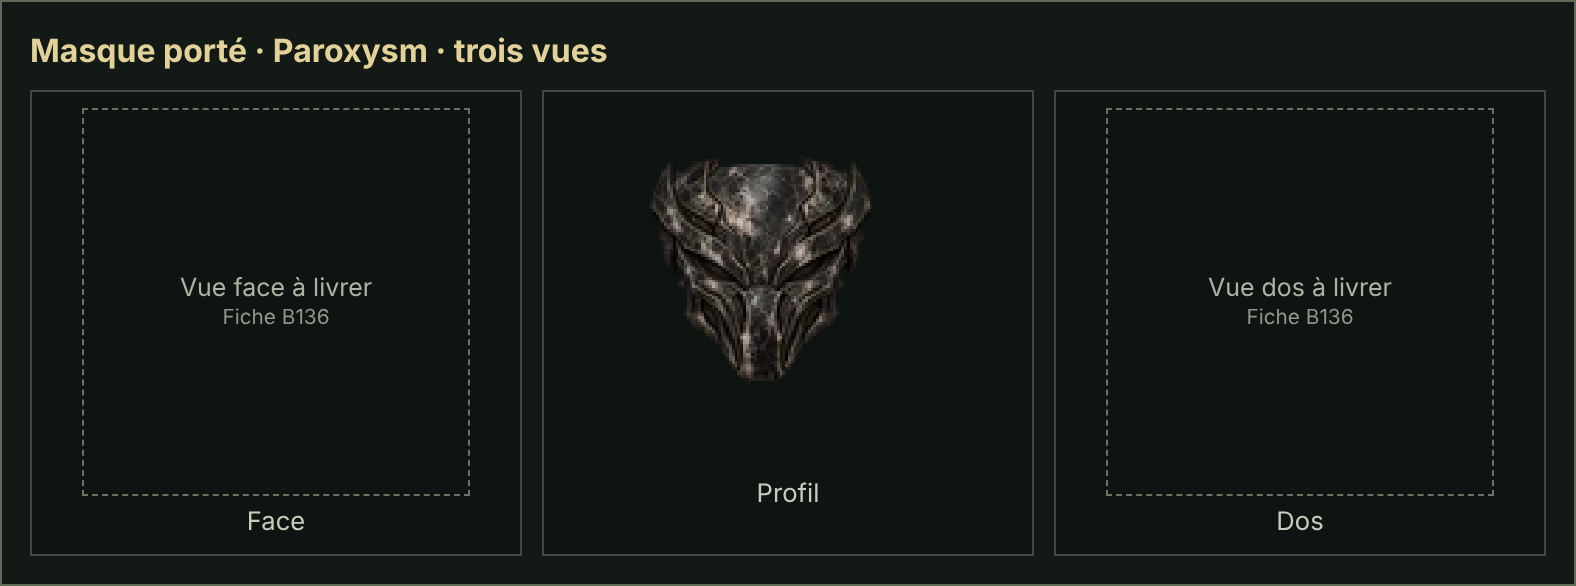
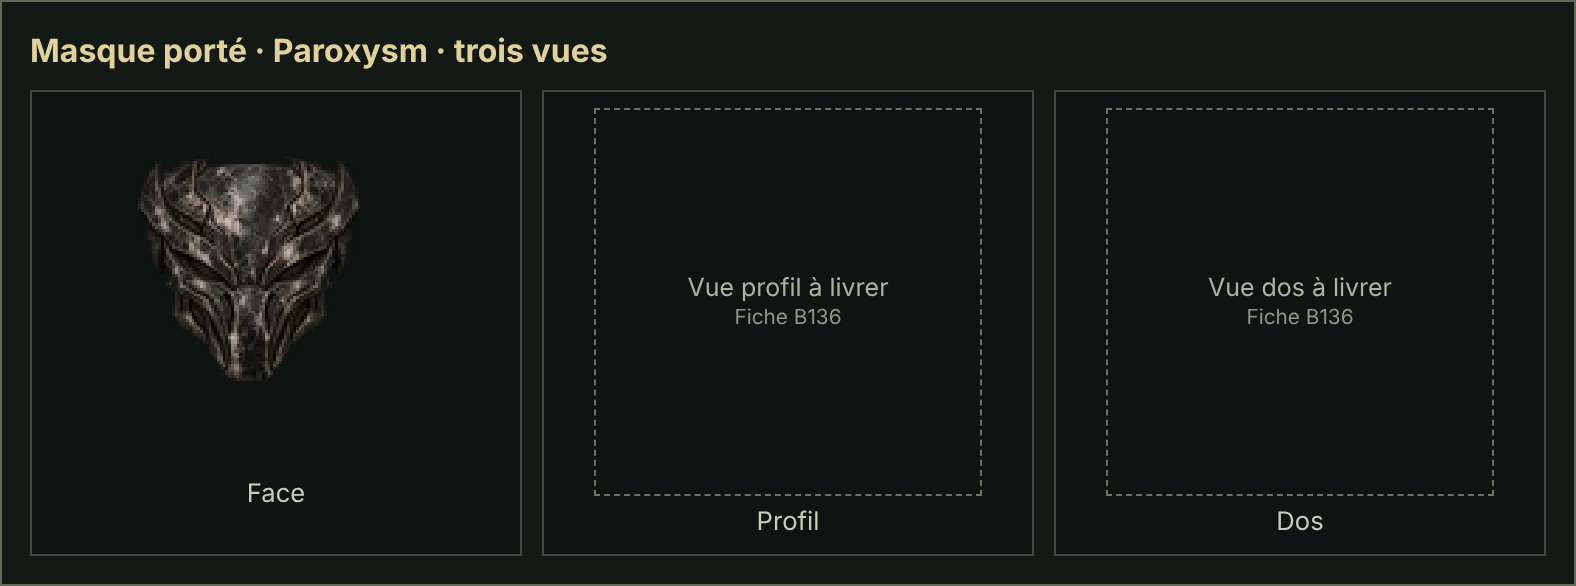
feat(armory): le sprite V133 devient la vue de face, profil et dos à livrer
Décision du propriétaire : le sprite concept V133 montre le masque de
face. L’armurerie l’affiche en face ; le profil et le dos viennent du
registre maskViewsV136.json. Les fiches d’art demandent désormais
profil.png et dos.png, cadrés sur la face existante.

Story: B136-0308..0314, B136-0234, B136-0251, B136-0266

Claude-Session: https://claude.ai/code/session_01GiExFMLy6mE6VdGnifECns

diff --git a/app/game/MaskTurnaroundV136.tsx b/app/game/MaskTurnaroundV136.tsx
@@ -1,21 +1,21 @@
 "use client";
 /** B136 · Face, profile and back of the worn concept mask in the armory.
- * Profile is the published V133 sprite; face and back come from maskViewsV136.json
- * once delivered and checked, otherwise the tile states that the view is pending.
+ * The published V133 sprite is the face view (owner decision, 2026-11-23); profile and back
+ * come from maskViewsV136.json once delivered and checked, otherwise the tile says it is pending.
  * Every view shares the 256×384 mask canvas; tiles show its 128×128 head window (x 64–192, y 0–128). */
 import views from "./data/maskViewsV136.json";
 import { conceptBiomaskV133 } from "./conceptBiomasksV133";
 import styles from "./MaskTurnaroundV136.module.css";
 
-type MaskViewsV136 = { face?: string; back?: string };
+type MaskViewsV136 = { profile?: string; back?: string };
 const registry = views.records as Record<string, MaskViewsV136>;
 
 /** View paths for a concept mask, or null when the mask is not a V133 concept. */
-export function maskTurnaroundV136(maskId: unknown): { name: string; profile: string; face: string | null; back: string | null } | null {
+export function maskTurnaroundV136(maskId: unknown): { name: string; face: string; profile: string | null; back: string | null } | null {
   const concept = conceptBiomaskV133(maskId);
   if (!concept) return null;
   const entry = registry[concept.id] ?? {};
-  return { name: concept.name.replace(/^Biomask concept · /, ""), profile: concept.assetPath, face: entry.face ?? null, back: entry.back ?? null };
+  return { name: concept.name.replace(/^Biomask concept · /, ""), face: concept.assetPath, profile: entry.profile ?? null, back: entry.back ?? null };
 }
 
 export default function MaskTurnaroundV136({ maskId }: { maskId: unknown }) {

diff --git a/docs/art/b136-masques-face-dos-fiches-20261123.md b/docs/art/b136-masques-face-dos-fiches-20261123.md
@@ -1,32 +1,32 @@
-# B136 · Fiches d'art des vues de face et de dos des masques
+# B136 · Fiches d'art des vues de profil et de dos des masques
 
 Commande d'art du 23 novembre 2026 pour B136-0308 à B136-0314 (sept masques concepts V133) et B136-0234, B136-0251 et B136-0266 (trois décalques de biomask). L'utilisateur fournit les images ; l'intégration et les contrôles pixel suivent leur livraison.
 
-Le critère des sept masques demande « face/profil/dos conformes, pivots mesurés, sans occlusion des yeux, jeu, aperçu et sauvegarde validés ». Celui des décalques demande des captures « 6 morphologies × 3 vues, ID autorisé, aucune fuite sur une autre zone ». Le profil existe déjà ; seules la face et le dos manquent.
+Le critère des sept masques demande « face/profil/dos conformes, pivots mesurés, sans occlusion des yeux, jeu, aperçu et sauvegarde validés ». Celui des décalques demande des captures « 6 morphologies × 3 vues, ID autorisé, aucune fuite sur une autre zone ». **Décision du 23 novembre 2026 :** le sprite V133 publié montre le masque de face (les deux fentes des yeux sont visibles). Il devient la **vue de face**. Il manque donc le **profil** et le **dos**.
 
 ## Limite à connaître avant de produire
 
-Le jeu ne dessine aujourd'hui le chasseur qu'**en profil**, gauche et droite. Aucun écran n'affiche une vue de face ou de dos du corps. Les nouvelles images ne pourront donc être contrôlées en jeu qu'après l'ajout d'une surface de présentation face/profil/dos. Elle demande aussi les vues de face et de dos du corps des six morphologies, qui n'existent pas non plus. Cette question est posée séparément ; les fiches ci-dessous restent valables quel que soit le choix.
+L'armurerie présente désormais le masque concept porté en trois vues (`app/game/MaskTurnaroundV136.tsx`) : la face publiée, puis le profil et le dos, signalés « à livrer » jusqu'à la livraison. Le corps du chasseur n'existe pas de face ni de dos ; les captures « 6 morphologies × 3 vues » du critère demandent encore ces vues de corps.
 
 ## Règles communes aux sept masques
 
 | Élément | Règle |
 | --- | --- |
-| Fichiers à livrer | `face.png` et `dos.png` par masque, PNG RGBA, fond entièrement transparent. Je produis les WebP du jeu. |
-| Toile | 256 × 384 px, comme le profil (`public/game/assets/v133/concept-masks/*.webp`). |
-| Échelle | Même hauteur de masque que le profil : environ 81 px de haut (alpha de y = 17 à y ≈ 98 dans le profil). |
-| Ancrage | Face et dos centrés sur l'axe vertical x = 128. Haut du masque à y = 17, comme le profil. |
-| Symétrie | La face reste symétrique sauf détail propre au modèle visible sur le profil (cicatrice, glyphe, tube). Un détail asymétrique est signalé dans la livraison. |
-| Yeux | Face : les deux fentes oculaires restent nettes et non recouvertes par un tube, un glyphe ou une pointe. |
+| Fichiers à livrer | `profil.png` et `dos.png` par masque, PNG RGBA, fond entièrement transparent. Je produis les WebP du jeu. |
+| Toile | 256 × 384 px, comme la vue de face publiée (`public/game/assets/v133/concept-masks/*.webp`). |
+| Échelle | Même hauteur de masque que la face : environ 81 px (alpha de y = 17 à y ≈ 98). |
+| Ancrage | Haut du masque à y = 17. Centre horizontal sur celui de la face du même masque (milieu du cadre alpha du tableau ci-dessous, x ≈ 118). |
+| Profil | Vue latérale droite (le masque regarde vers la droite), cohérente avec les volumes de la face : front, arêtes, tubes. |
+| Yeux | Profil : la fente oculaire visible reste nette, non recouverte par un tube, un glyphe ou une pointe. |
 | Dos | Il montre l'arrière du masque et ses fixations au casque, sans visage. Ne pas dessiner de tête ni de dreadlocks : ils appartiennent au corps. |
-| Style | Mêmes matériaux, palette, usure et éclairage que le profil (lumière venant d'en haut à gauche). Aucun logo, texte ou élément repris d'une œuvre existante. |
+| Style | Mêmes matériaux, palette, usure et éclairage que la face (lumière venant d'en haut à gauche). Aucun logo, texte ou élément repris d'une œuvre existante. |
 | Interdits | Pas d'ombre portée hors du masque, pas de halo, pas de pixels semi-transparents parasites hors de la silhouette. |
 
 ## Fiches par masque
 
-Les cadres alpha du profil viennent de `app/game/conceptMaskFitV137.ts`. L'empreinte SHA-256 (préfixe) identifie le profil de référence dans `app/game/data/conceptBiomasksV133.json`.
+Les cadres alpha de la face viennent de `app/game/conceptMaskFitV137.ts`. L'empreinte SHA-256 (préfixe) identifie la face de référence dans `app/game/data/conceptBiomasksV133.json`.
 
-| Exigence | Masque | Profil de référence | Classe | Cadre alpha du profil (g, h, d, b) | SHA-256 du profil |
+| Exigence | Masque | Face de référence | Classe | Cadre alpha de la face (g, h, d, b) | SHA-256 de la face |
 | --- | --- | --- | --- | --- | --- |
 | B136-0308 | Requiem | `concept-masks/requiem.webp` | alpha ou samurai | 80, 17, 158, 99 | `6cb669139f310541…` |
 | B136-0309 | Nova | `concept-masks/nova.webp` | alpha ou samurai | 79, 17, 158, 98 | `6aac14a067f8b9ee…` |
@@ -38,9 +38,9 @@ Les cadres alpha du profil viennent de `app/game/conceptMaskFitV137.ts`. L'empre
 
 Pour chaque masque, livrer :
 
-1. `face.png` : le masque vu de face, yeux dégagés, silhouette cohérente avec la largeur du profil (le profil mesure environ 78 px de large ; la face sera plus étroite selon la forme).
+1. `profil.png` : le masque vu de côté, tourné vers la droite, fente oculaire dégagée.
 2. `dos.png` : le revers du même masque, avec ses fixations.
-3. Une phrase par vue sur les choix faits là où le profil ne montre rien (forme du front, revers, attaches).
+3. Une phrase par vue sur les choix faits là où la face ne montre rien (profondeur, revers, attaches).
 
 ## Fiches des trois décalques
 
@@ -52,18 +52,18 @@ Les décalques viennent de l'atlas `public/game/assets/v133/decals/decal-atlas.w
 | B136-0251 | `clan-v133-biomask-war-scratch` | 5, 0 |
 | B136-0266 | `clan-v133-biomask-scorched-line` | 0, 1 |
 
-Pour chaque décalque, livrer une version `face.png` et une version `dos.png` de 256 × 256 px, PNG RGBA, fond transparent. Le motif doit rester entièrement dans la silhouette du masque Requiem vu de face et de dos (c'est le masque des contrôles du lot 5), sans toucher les yeux.
+Pour chaque décalque, livrer une version `profil.png` et une version `dos.png` de 256 × 256 px, PNG RGBA, fond transparent. Le motif doit rester entièrement dans la silhouette du masque Requiem de la même vue (c'est le masque des contrôles du lot 5), sans toucher les yeux.
 
 ## Livraison et contrôles qui suivront
 
-Déposer les fichiers sous `art-source/b136-face-dos-20261123/<masque>/face.png` et `dos.png`, et `art-source/b136-face-dos-20261123/decals/<décalque>/face.png` et `dos.png`, avec la source (outil ou dessin) et la licence.
+Déposer les fichiers sous `art-source/b136-profil-dos-20261123/<masque>/profil.png` et `dos.png`, et `art-source/b136-profil-dos-20261123/decals/<décalque>/profil.png` et `dos.png`, avec la source (outil ou dessin) et la licence.
 
 À réception, je vérifierai pour chaque fichier :
 
 - la taille, le mode RGBA et l'absence de pixels opaques hors de la silhouette ;
-- le centrage sur x = 128 et le haut à y = 17, avec une tolérance de 2 px ;
-- la hauteur à ± 4 px de celle du profil ;
-- sur la face, l'absence de pixels opaques sur les zones des yeux ;
+- le haut à y = 17 et le centre horizontal sur celui de la face, avec une tolérance de 2 px ;
+- la hauteur à ± 4 px de celle de la face ;
+- sur le profil, l'absence de pixels opaques sur la fente oculaire ;
 - pour les décalques, la présence de tous leurs pixels dans l'alpha du masque Requiem de la même vue.
 
-Les captures 6 morphologies × 3 vues, l'aperçu et la sauvegarde ne seront possibles qu'avec la surface de présentation face/profil/dos décrite plus haut.
+À l'intégration, j'ajoute les chemins dans `app/game/data/maskViewsV136.json` et l'armurerie affiche les trois vues. Les captures 6 morphologies × 3 vues demandent encore les vues de corps de face et de dos.
